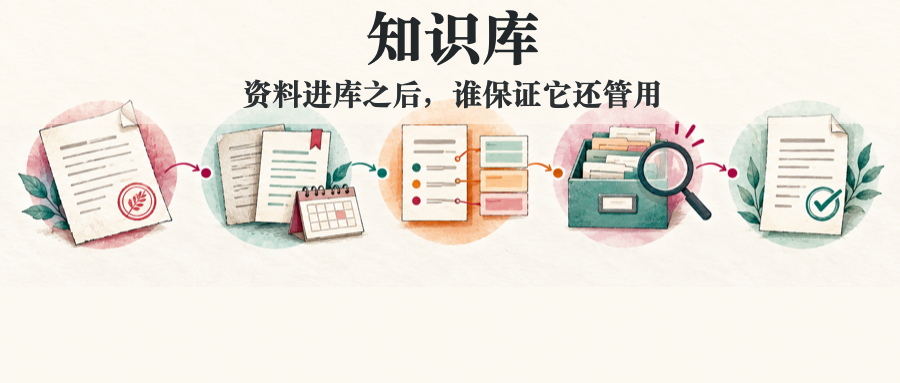
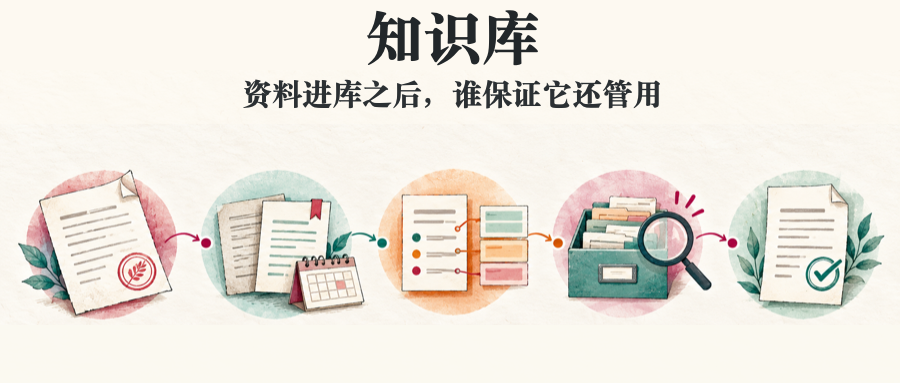
Reduce WeChat cover title safe zone

Changed region(s): [[0.0, 0.2585, 0.9956, 0.8329]]

diff --git a/docs/project-specification.md b/docs/project-specification.md
@@ -4,11 +4,11 @@
 
 | 项目 | 值 |
 | --- | --- |
-| 规范版本 | `1.29.0` |
+| 规范版本 | `1.30.0` |
 | 适用项目版本 | `0.5.0` |
-| 阶段 | 增加公众号主副文成文质量基线，防止叙事、题目和配图模板化 |
-| 文档基线 | 基于 `a3fc386`（`main`；修改前仅有无关的未跟踪推文终稿目录） |
-| 修改时间 | `2026-09-30 15:43 CST` |
+| 阶段 | 将主文封面底部标题遮罩安全区由约 25% 调整为约 15% |
+| 文档基线 | 基于 `a5b9114`（`main`；修改前工作区干净） |
+| 修改时间 | `2026-09-30 17:07 CST` |
 
 ## 1. 目标与边界
 
@@ -261,7 +261,7 @@ ai-agent-knowledge-map/
 #### 5.3.4 图片与提示词
 
 - 每篇正文至少引用 5 张本地 PNG/JPG，Front Matter 的 `cover` 不计入这 5 张正文配图；图片放在对应推文组所在目录的 `assets/` 下（总概览放一级模块目录，子模块放各自的子模块目录）；
-- 公众号封面由 Front Matter 的 `cover` 单独指定，并按实际封面比例和安全区预览。封面必须准确对应文章主题；若已有封面与正文实际内容关联较弱，可以删除并重新制作。主文封面底部约 25% 作为微信自动标题遮罩安全区，不放标题、关键标签、核心节点、关系线或必须看见的案例字段。副文封面按小缩略图重新构图，不把主文封面直接缩小或只换颜色；具体的中心视觉、短标签、裁切安全区与实际尺寸验收遵循 [公众号配图参考规范](./wechat-illustration-reference.md) 第 9 节。正文不要求设置“首图”，也不因排版习惯保留标题图或氛围图；只有封面同时承担机制、案例或关键关系的解释任务时，才可在正文相应位置复用；
+- 公众号封面由 Front Matter 的 `cover` 单独指定，并按实际封面比例和安全区预览。封面必须准确对应文章主题；若已有封面与正文实际内容关联较弱，可以删除并重新制作。主文封面底部约 15% 作为微信自动标题遮罩安全区，不放标题、关键标签、核心节点、关系线或必须看见的案例字段。副文封面按小缩略图重新构图，不把主文封面直接缩小或只换颜色；具体的中心视觉、短标签、裁切安全区与实际尺寸验收遵循 [公众号配图参考规范](./wechat-illustration-reference.md) 第 9 节。正文不要求设置“首图”，也不因排版习惯保留标题图或氛围图；只有封面同时承担机制、案例或关键关系的解释任务时，才可在正文相应位置复用；
 - 正文配图必须承担明确的信息任务，例如解释机制、比较差异、核对证据或展示实验结果。只重复标题、副标题或泛化口号的图片不作为正文配图；案例文章优先画案例中的具体字段、证据与判断，不用可套在任意 Agent 文章上的通用护栏流程代替；
 - **每一篇 `beginner-main.md` 至少包含一张原理示意图**，包括一级模块总览主文。原理图必须展示真实机制的关键部件及其依赖、信息流或计算过程；仅有职责分工、业务流程、发布闭环或抽象图标的图片不能充数。总览主文可展示一个横跨子模块的代表性机制，避免重复下钻正文；面试副文可复用已核实的原理图，不强制另画一张；
 - 配图先分类：框架图、业务流程图和系统协作图可延续现有的分层、节点、箭头设计；**原理图**先阅读该机制的经典或原始论文及必要的后续资料，找到有代表性的架构图、计算图或对比图，再决定画面结构。不要把任何原理都套进四格流程，也不要只凭生成模型的联想画电路、脑袋或抽象网络；

diff --git a/content/wechat/02-knowledge-retrieval-and-rag/submodules/01-knowledgebase/prompts.md b/content/wechat/02-knowledge-retrieval-and-rag/submodules/01-knowledgebase/prompts.md
@@ -1,6 +1,6 @@
 # 知识库子模块配图说明
 
-版本：0.4.0；修订时间：2026-09-30 15:43 CST；依据提交：`a3fc386`（`main`，修订前含其他未提交的规范修订与未跟踪的推文终稿目录）。
+版本：0.4.1；修订时间：2026-09-30 17:07 CST；依据提交：`a5b9114`（`main`，修订前工作区干净）。
 
 统一 1536×1024 PNG、暖白底、青绿与橙色重点、清楚中文，无水印。五张结构图讲资料生命周期，一张论文对照原理图讲索引建立；图中文字只写能在手机上读清的关键词。
 
@@ -8,7 +8,7 @@
 
 两张封面最终均为 900×383 PNG。图像生成工具只负责无文字编辑插画；需要精确呈现的中文由 `scripts/compose-knowledgebase-covers.mjs` 确定性叠加，避免错别字和多余标签。视觉参考第一模块的公众号封面：暖白纸张、深灰线条、墨绿、青绿、梅红和少量橙色，低饱和、横向单线叙事、留白充足。禁止“一级模块总览”“子模块”“大话系列”“结构图”等内部标签，也禁止机器人、盾牌、发光核心、霓虹、渐变、立体玻璃卡片和通用图标拼贴。
 
-1. `kb-cover-main-wechat.png`：主文封面。标题逐字为“知识库”，副标题逐字为“资料进库之后，谁保证它还管用”。标题使用 58 px 重宋体，副标题使用 30 px 重宋体。无文字底图以正式原件、旧新版本与日历、结构化记录、可检索档案和有效原文组成一条短叙事；底部 96 px（约 25%）只保留暖白纸张纹理，作为微信自动标题遮罩安全区，不放对象、箭头或关键信息。
+1. `kb-cover-main-wechat.png`：主文封面。标题逐字为“知识库”，副标题逐字为“资料进库之后，谁保证它还管用”。标题使用 58 px 重宋体，副标题使用 30 px 重宋体。无文字底图以正式原件、旧新版本与日历、结构化记录、可检索档案和有效原文组成一条短叙事；底部 58 px（约 15%）只保留暖白纸张纹理，作为微信自动标题遮罩安全区，不放对象、箭头或关键信息。
 2. `kb-cover-interview-wechat.png`：面试副文封面按小缩略图设计，不再写完整文章标题。全部关键信息放在中央正方形安全区：放大镜覆盖旧、新两版制度，旧版用红叉和 34 px“旧版”短标签，有效版用绿勾和 34 px“有效版”短标签；中央组合约占画面面积 60%。两端不再放问题卡、清单、纸堆或装饰面板，缩成 128×128 并居中裁切后仍要一眼看懂。
 
 正文不重复插入封面；主、副文分别使用自己的封面，不通过同图换色区分。

diff --git a/docs/wechat-draft-push-checklist.md b/docs/wechat-draft-push-checklist.md
@@ -4,11 +4,11 @@
 
 | 项目 | 值 |
 | --- | --- |
-| 规范版本 | `1.2.0` |
+| 规范版本 | `1.2.1` |
 | 适用项目版本 | `0.5.0` |
-| 阶段 | 将主副文知识增量、整组图解差异与章节节奏纳入人工验收 |
-| 文档基线 | `a3fc386`（`main`；修改前仅有无关的未跟踪推文终稿目录） |
-| 修改时间 | `2026-09-30 15:43 CST` |
+| 阶段 | 将主文封面底部标题遮罩安全区由约 25% 调整为约 15% |
+| 文档基线 | `a5b9114`（`main`；修改前工作区干净） |
+| 修改时间 | `2026-09-30 17:07 CST` |
 
 ## 1. 适用范围与判定原则
 
@@ -98,7 +98,7 @@
 - [ ] 连续查看同一篇全部图片时，标题尺度、边距、线条、色彩强度和信息密度协调，没有某一张突然过亮、过空或过吵。
 - [ ] 以约 330—345px 的手机正文宽度逐张检查；横图不是因缩小而失去文字，竖图也不是只把同样的三层卡片放大。主副封面虽独立构图，材质、字体气质与主辅色仍属于同一视觉家族。
 - [ ] 主、副文分别使用与正文强相关的封面；正文不保留只承担标题展示或氛围装饰的首图。
-- [ ] 主文封面按列表大图检查，底部约 25% 的微信标题遮罩安全区没有关键内容。
+- [ ] 主文封面按列表大图检查，底部约 15% 的微信标题遮罩安全区没有关键内容。
 - [ ] 副文封面按右侧小缩略图独立设计：不重复完整文章标题，只保留一个约占画面 60% 的强中心视觉和必要短标签；关键内容位于中央正方形安全区，裁切后仍能辨认，颜色不是状态的唯一区分方式。
 
 ## 6. 格式与自动校验

diff --git a/docs/wechat-illustration-reference.md b/docs/wechat-illustration-reference.md
@@ -4,11 +4,11 @@
 
 | 项目 | 值 |
 | --- | --- |
-| 规范版本 | `1.5.0` |
+| 规范版本 | `1.5.1` |
 | 适用项目版本 | `0.5.0` |
-| 阶段 | 增加整组配图的信息分工、构图变化与移动端验收 |
-| 文档基线 | `a3fc386`（`main`；修改前仅有无关的未跟踪推文终稿目录） |
-| 修改时间 | `2026-09-30 15:43 CST` |
+| 阶段 | 将主文封面底部标题遮罩安全区由约 25% 调整为约 15% |
+| 文档基线 | `a5b9114`（`main`；修改前工作区干净） |
+| 修改时间 | `2026-09-30 17:07 CST` |
 
 ## 1. 适用范围
 
@@ -123,7 +123,7 @@
 
 ### 9.1 主文封面
 
-- 主文封面底部约 25% 作为微信自动标题遮罩安全区。该区域只放可被遮挡的背景和非必要装饰，不放标题、副标题、关键标签、核心节点、关系线、结论或必须辨认的案例字段。
+- 主文封面底部约 15% 作为微信自动标题遮罩安全区。该区域只放可被遮挡的背景和非必要装饰，不放标题、副标题、关键标签、核心节点、关系线、结论或必须辨认的案例字段。
 - 验收时不能只查看本地原图；必须在公众号首条大图预览中叠加实际文章标题，确认遮罩不会截断画面主线或改变图意。
 
 ### 9.2 副文封面

diff --git a/content/wechat/02-knowledge-retrieval-and-rag/submodules/01-knowledgebase/beginner-main.md b/content/wechat/02-knowledge-retrieval-and-rag/submodules/01-knowledgebase/beginner-main.md
@@ -12,10 +12,10 @@ topic: "context"
 content_level: "submodule"
 submodule: "knowledgebase"
 series_order: 1
-version: "0.1.4"
-stage: "按微信标题遮罩安全区重做主文封面"
-git_state: "基于 a3fc386（main；修改前含其他未提交的规范修订与未跟踪的推文终稿目录）"
-modified_at: "2026-09-30 15:43 CST"
+version: "0.1.5"
+stage: "将主文封面底部标题遮罩安全区由约 25% 调整为约 15%"
+git_state: "基于 a5b9114（main；修改前工作区干净）"
+modified_at: "2026-09-30 17:07 CST"
 ---
 
 # 知识库：资料进库之后，谁保证它还管用
